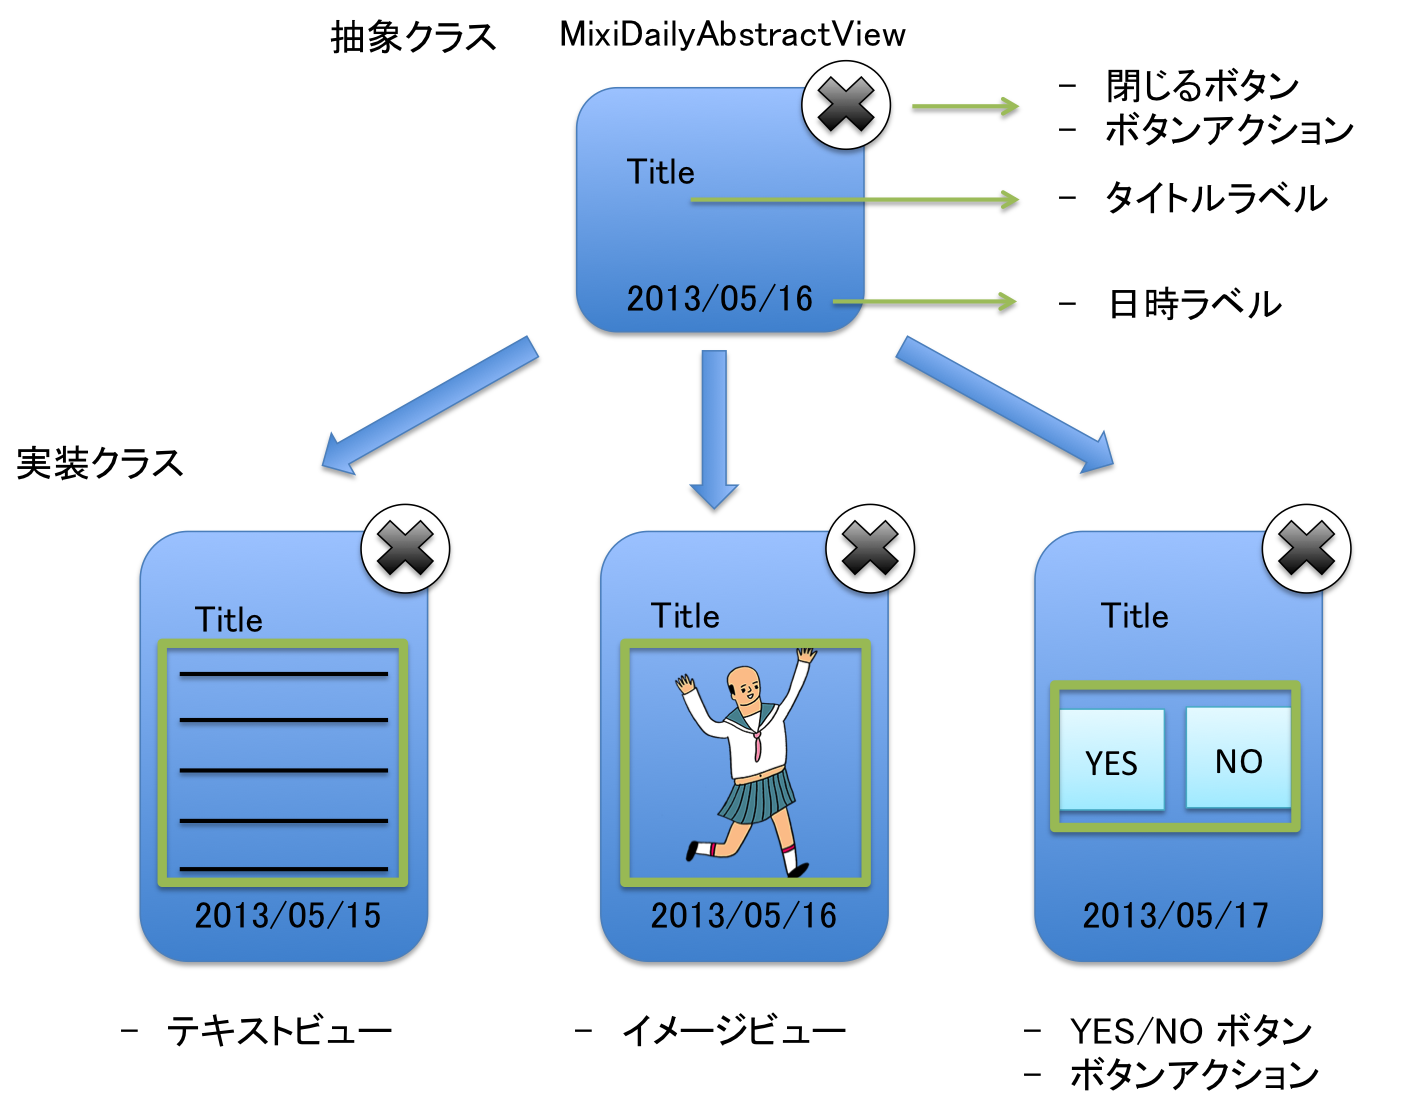
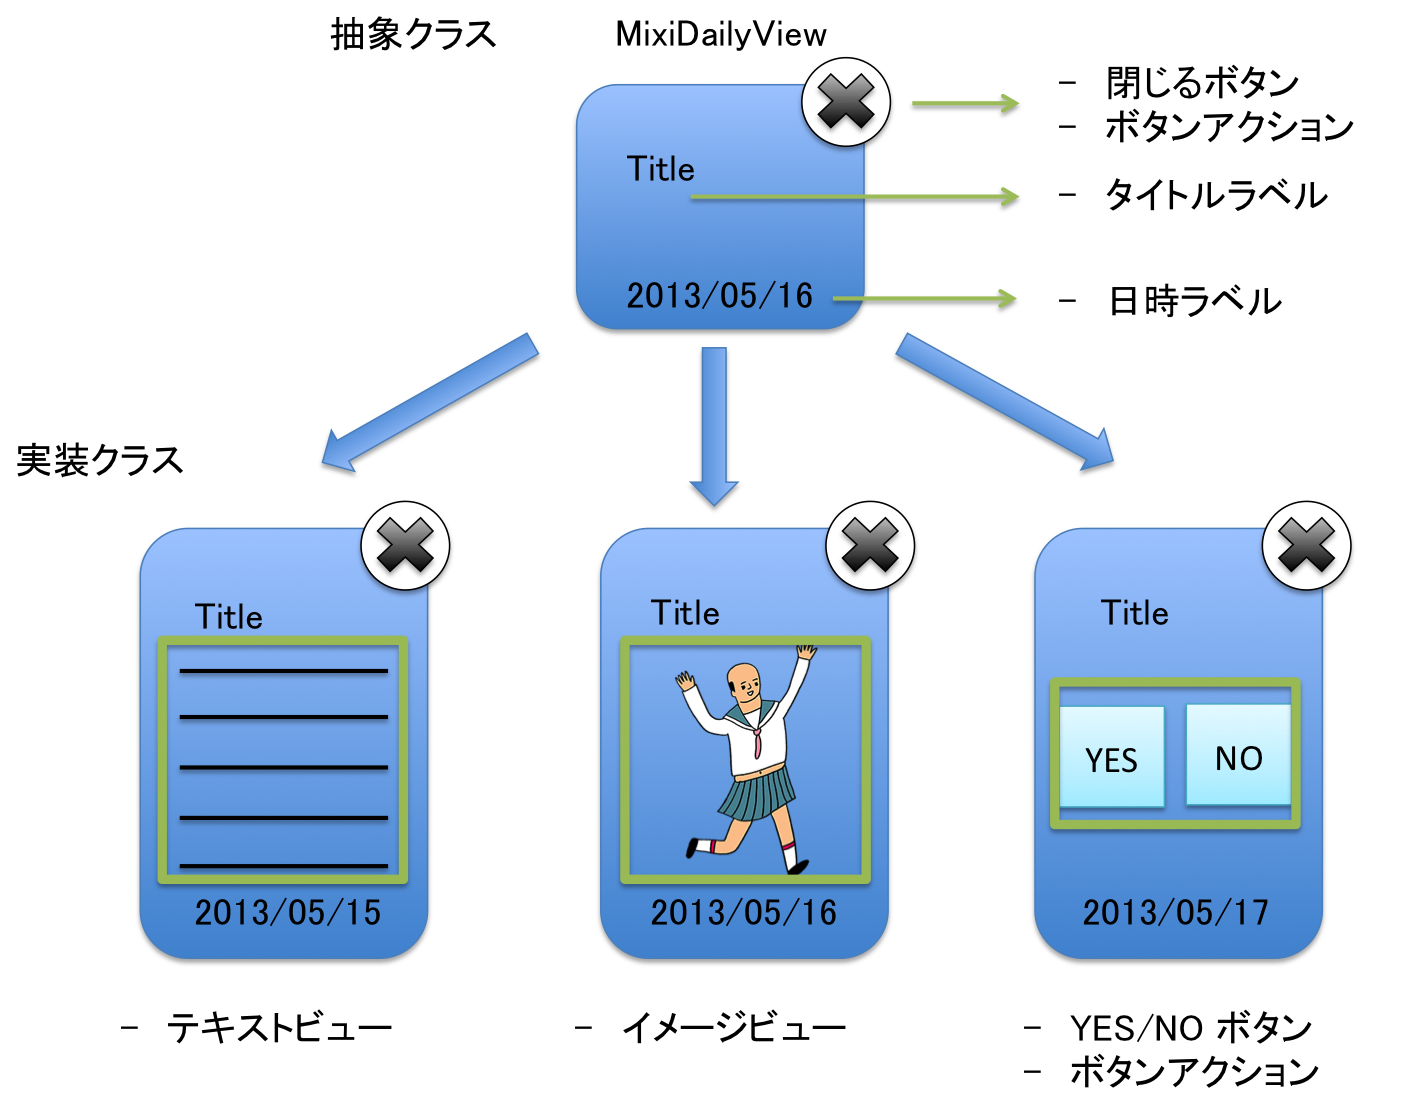
fixed sample project and image for 9.2

diff --git a/SampleProjects/9.2/MixiCodeDesign2/MixiCodeDesign2/MixiViewController.m b/SampleProjects/9.2/MixiCodeDesign2/MixiCodeDesign2/MixiViewController.m
@@ -7,9 +7,10 @@
 //
 
 #import "MixiViewController.h"
-#import "MixiDailyChoiceView.h"
 
 @interface MixiViewController ()
+
+@property (nonatomic, strong) MixiDailyView *dailyView;
 
 @end
 
@@ -19,15 +20,33 @@
 {
     [super viewDidLoad];
 	// Do any additional setup after loading the view, typically from a nib.
-    MixiDailyChoiceView *dailyView = [MixiDailyChoiceView dailyChoiceView];
-    dailyView.center = self.view.center;
-    [self.view addSubview:dailyView];
+    _dailyView = [MixiDailyChoiceView dailyChoiceView];
+    _dailyView.center = self.view.center;
+    _dailyView.delegate = self;
+    [self.view addSubview:_dailyView];
 }
 
 - (void)didReceiveMemoryWarning
 {
     [super didReceiveMemoryWarning];
     // Dispose of any resources that can be recreated.
+}
+
+-(void)dailyViewDidPressCloseButton
+{
+    [_dailyView removeFromSuperview];
+}
+
+-(void)dailyViewDidPressYesButton
+{
+    //do something
+    NSLog(@"Yes");
+}
+
+-(void)dailyViewDidPressNoButton
+{
+    //do something
+    NSLog(@"No");
 }
 
 @end

diff --git a/SampleProjects/9.2/MixiCodeDesign2/MixiCodeDesign2/MixiDailyView.h b/SampleProjects/9.2/MixiCodeDesign2/MixiCodeDesign2/MixiDailyView.h
@@ -1,5 +1,5 @@
 //
-//  MixiDailyAbstractView.h
+//  MixiDailyView.h
 //  MixiCodeDesign2
 //
 //  Created by 田村 航弥 on 2013/05/15.
@@ -10,11 +10,16 @@
 
 @protocol MixiDailyViewDelegate <NSObject>
 
+@required
 -(void)dailyViewDidPressCloseButton;
+
+@optional
+-(void)dailyViewDidPressYesButton;
+-(void)dailyViewDidPressNoButton;
 
 @end
 
-@interface MixiDailyAbstractView : UIView
+@interface MixiDailyView : UIView
 
 @property (nonatomic, weak) IBOutlet UILabel *titleLabel;
 @property (nonatomic, weak) IBOutlet UIButton *closeButton;

diff --git a/SampleProjects/9.2/MixiCodeDesign2/MixiCodeDesign2/MixiDailyChoiceView.m b/SampleProjects/9.2/MixiCodeDesign2/MixiCodeDesign2/MixiDailyChoiceView.m
@@ -21,12 +21,16 @@
 
 - (IBAction)pressYesButton:(id)sender
 {
-    //do something
+    if([self.delegate respondsToSelector:@selector(dailyViewDidPressYesButton)]){
+        [self.delegate dailyViewDidPressYesButton];
+    }
 }
 
 - (IBAction)pressNoButton:(id)sender
 {
-    //do something
+    if([self.delegate respondsToSelector:@selector(dailyViewDidPressNoButton)]){
+        [self.delegate dailyViewDidPressNoButton];
+    }
 }
 
 @end

diff --git a/SampleProjects/9.2/MixiCodeDesign2/MixiCodeDesign2/MixiDailyChoiceView.h b/SampleProjects/9.2/MixiCodeDesign2/MixiCodeDesign2/MixiDailyChoiceView.h
@@ -6,9 +6,9 @@
 //  Copyright (c) 2013年 mixi. All rights reserved.
 //
 
-#import "MixiDailyAbstractView.h"
+#import "MixiDailyView.h"
 
-@interface MixiDailyChoiceView : MixiDailyAbstractView
+@interface MixiDailyChoiceView : MixiDailyView
 
 +(MixiDailyChoiceView *)dailyChoiceView;
 - (IBAction)pressYesButton:(id)sender;

diff --git a/SampleProjects/9.2/MixiCodeDesign2/MixiCodeDesign2/MixiDailyView.m b/SampleProjects/9.2/MixiCodeDesign2/MixiCodeDesign2/MixiDailyView.m
@@ -6,9 +6,9 @@
 //  Copyright (c) 2013年 mixi. All rights reserved.
 //
 
-#import "MixiDailyAbstractView.h"
+#import "MixiDailyView.h"
 
-@implementation MixiDailyAbstractView
+@implementation MixiDailyView
 
 
 -(void)pressCloseButton:(id)sender

diff --git a/SampleProjects/9.2/MixiCodeDesign2/MixiCodeDesign2/MixiViewController.h b/SampleProjects/9.2/MixiCodeDesign2/MixiCodeDesign2/MixiViewController.h
@@ -7,7 +7,8 @@
 //
 
 #import <UIKit/UIKit.h>
+#import "MixiDailyChoiceView.h"
 
-@interface MixiViewController : UIViewController
+@interface MixiViewController : UIViewController<MixiDailyViewDelegate>
 
 @end
